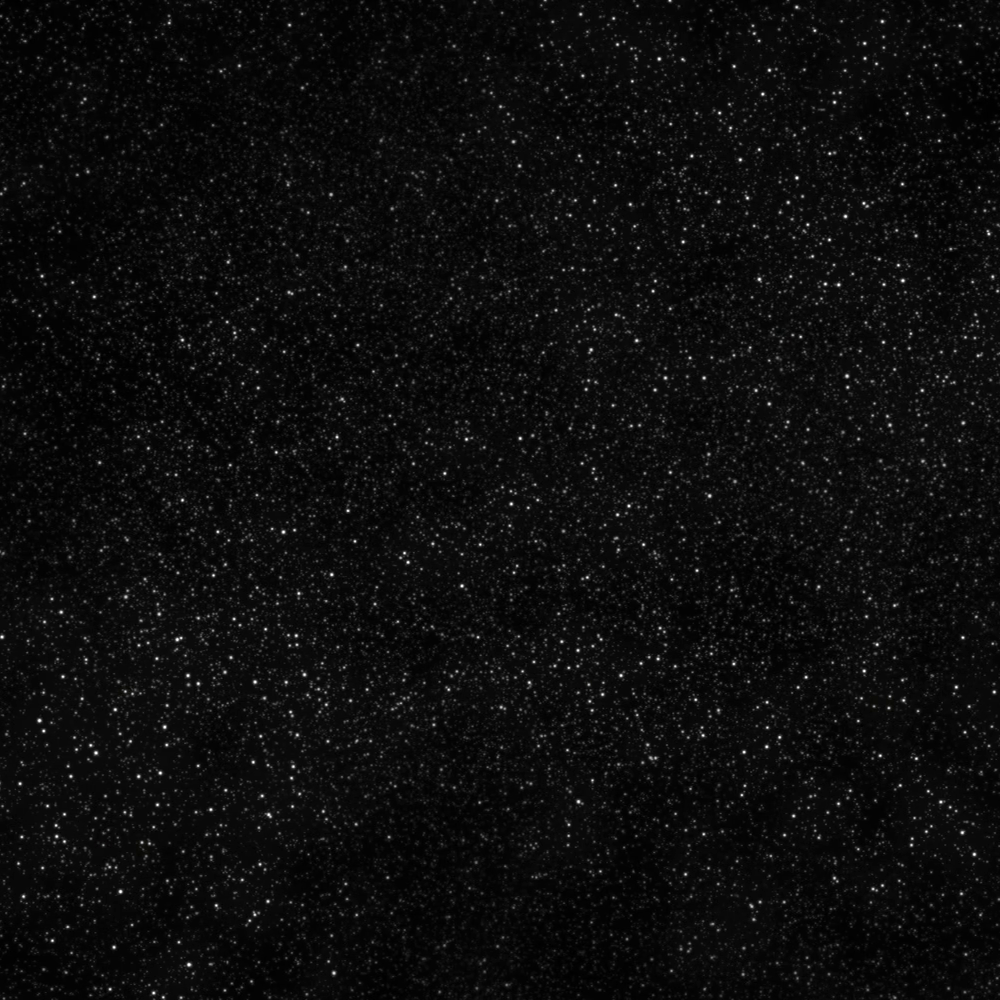
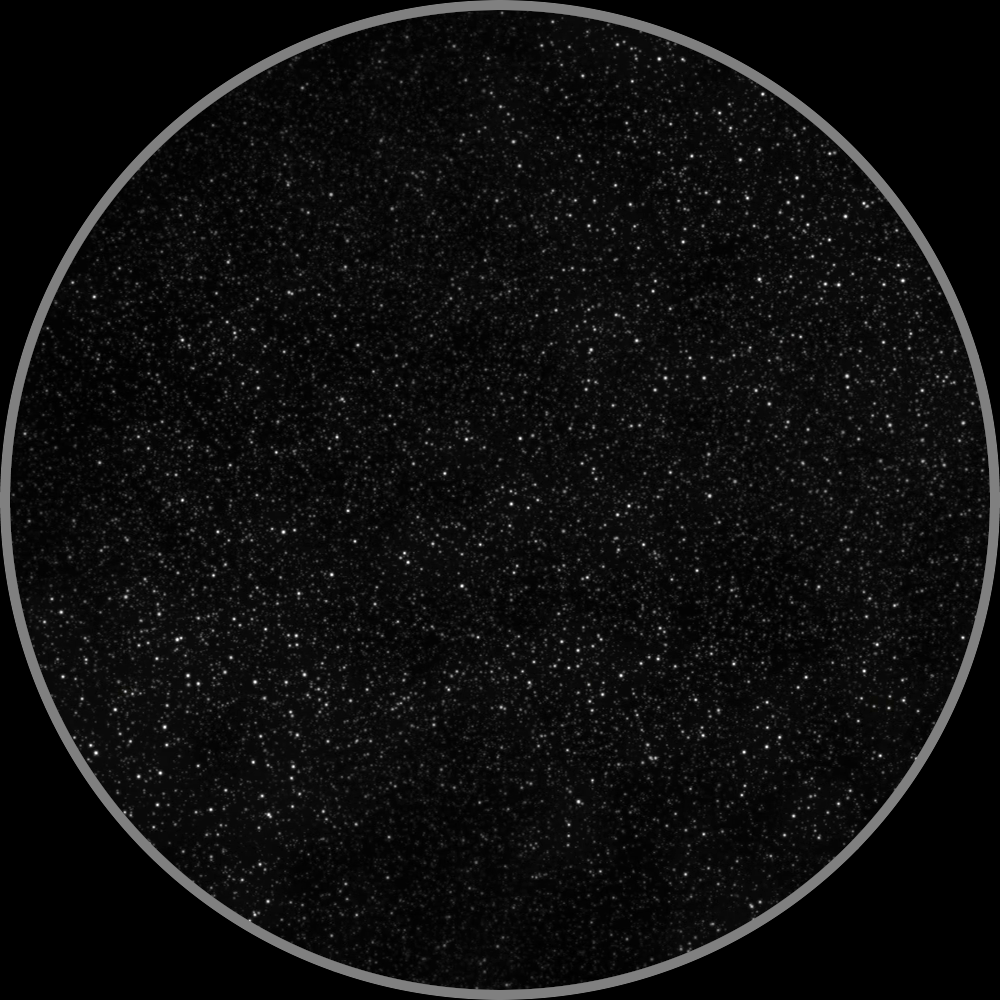
messed with even more stuff

diff --git a/main.py b/main.py
@@ -5,8 +5,10 @@ import os
 
 pygame.init()
 
+# Variables used in the window
 WINDOW_HEIGHT = 1000
 WINDOW_WIDTH = 1000
+bg = pygame.image.load("assets/bg.png")
 
 screen = pygame.display.set_mode((WINDOW_HEIGHT, WINDOW_WIDTH))
 
@@ -17,7 +19,7 @@ class ship(object):
     def __init__(self, x, y, asset):
         self.s_location = [x, y]  # ship location
         self.s_velocity = 0  # ship speed (0 - 100)
-        self.s_heading = 300  # direction (0 - 360)
+        self.s_heading = 0  # direction (0 - 360)
         # converting the image makes it run faster (supposedly). image is then resized so it looks alright
         self.ship_icon = pygame.transform.scale(pygame.image.load(asset).convert(), (50, 50))
 
@@ -50,8 +52,14 @@ class ship(object):
         # this function should modify the ship's location
         # ship orientation should be set based on the ship heading
 
+ship_g = ship(40, WINDOW_HEIGHT / 2, "assets/shipGreen.png")
 
-ship_g = ship(20, 500, "assets/shipGreen.png")
+class star(object):
+    def __init__(self, x, y, asset):
+        self.location = [x, y] # star location
+        self.icon = pygame.image.load(asset) # star icon
+
+star_ = star(WINDOW_WIDTH / 2, WINDOW_HEIGHT / 2, "assets/star.png")
 
 while True:
 
@@ -65,6 +73,7 @@ while True:
     pressed_keys = pygame.key.get_pressed()
     if pressed_keys[pygame.K_RIGHT]:  # this code should make the ship turn
         ship_g.s_heading += 1
+        ship_g.ship_icon = pygame.transform.rotate(ship_g.ship_icon, 1)
     elif pressed_keys[pygame.K_LEFT]:
         ship_g.s_heading -= 1
     if pressed_keys[pygame.K_UP]:  # this code controls acceleration
@@ -73,14 +82,14 @@ while True:
         ship_g.s_velocity -= 1
 
     ship_g.update_ship_location()
-    pygame.transform.rotate(ship_g.ship_icon, ship_g.s_heading)
+    # pygame.transform.rotate(ship_g.ship_icon, ship_g.s_heading)
 
     # TODO: Try to make this into an image
     screen.fill("black")  # Fill the display with a solid color
-
-    pygame.draw.circle(screen, "#8a8a8a", (WINDOW_WIDTH / 2, WINDOW_HEIGHT / 2), 500)
+    screen.blit(bg, (0, 0))
 
     screen.blit(ship_g.ship_icon, ship_g.s_location)
+    screen.blit(star_.icon, star.location)
 
     # Render the graphics here.
     # ...

diff --git a/README.md b/README.md
@@ -1,4 +1,5 @@
-# MOHackathon24
-"HELLO"
+# Welcome to our project for the Missouri Hackathon 2024
+
+## This is far from finished
 
 testing testing pls
